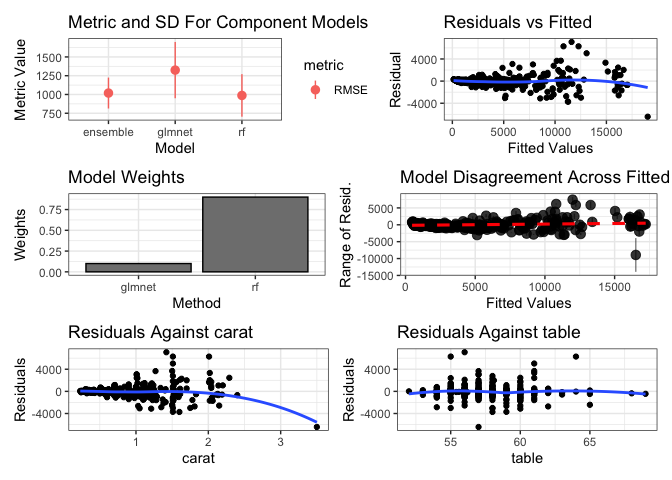
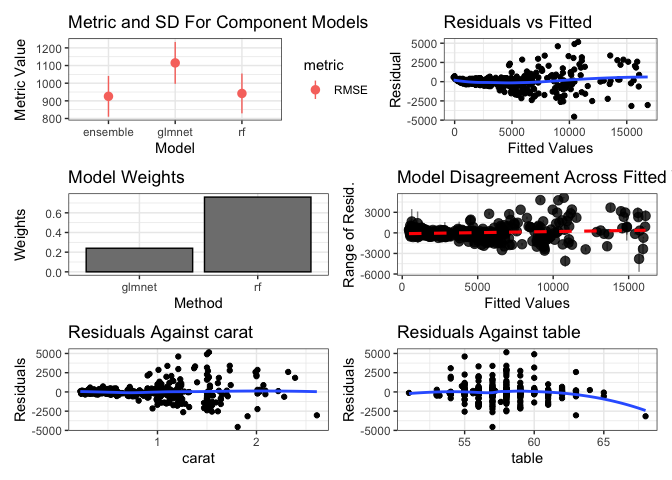
rebuild

diff --git a/README.md b/README.md
@@ -56,21 +56,21 @@ print(greedy_stack)
 #> 
 #> No pre-processing
 #> Resampling: Cross-Validated (5 fold) 
-#> Summary of sample sizes: 400, 400, 400, 400, 400 
+#> Summary of sample sizes: 399, 401, 400, 400, 400 
 #> Resampling results:
 #> 
 #>   RMSE      Rsquared   MAE     
-#>   1019.069  0.9401024  530.9788
+#>   925.6101  0.9454321  513.4172
 #> 
 #> Tuning parameter 'max_iter' was held constant at a value of 100
 #> 
 #> Final model:
 #> Greedy MSE
-#> RMSE:  1013.725 
+#> RMSE:  927.4321 
 #> Weights:
 #>        [,1]
-#> rf      0.9
-#> glmnet  0.1
+#> rf     0.76
+#> glmnet 0.24
 ggplot2::autoplot(greedy_stack, training_data = dat, xvars = c("carat", "table"))
 ```
 
@@ -89,11 +89,11 @@ print(rf_stack)
 #> 
 #> No pre-processing
 #> Resampling: Cross-Validated (5 fold) 
-#> Summary of sample sizes: 400, 400, 400, 400, 400 
+#> Summary of sample sizes: 399, 400, 401, 400, 400 
 #> Resampling results:
 #> 
 #>   RMSE      Rsquared   MAE     
-#>   1076.369  0.9338026  531.9601
+#>   935.9032  0.9469527  525.7192
 #> 
 #> Tuning parameter 'mtry' was held constant at a value of 2
 #> 
@@ -105,8 +105,8 @@ print(rf_stack)
 #>                      Number of trees: 500
 #> No. of variables tried at each split: 2
 #> 
-#>           Mean of squared residuals: 1136154
-#>                     % Var explained: 93.38
+#>           Mean of squared residuals: 919446.8
+#>                     % Var explained: 94.1
 ggplot2::autoplot(rf_stack, training_data = dat, xvars = c("carat", "table"))
 ```
 
@@ -141,7 +141,7 @@ will work in a variety of environments.
 
 # Package development
 
-This packages uses a Makefile. Use `make help` to see the supported
+This package uses a Makefile. Use `make help` to see the supported
 options.
 
 Use `make fix-style` to fix simple linting errors.
@@ -157,20 +157,17 @@ CHECK and a code coverage check. This runs
 ## First time dev setup:
 
 run `make install` from the git repository to install the dev version of
-caretEnsemble, along with the necessary package dependencies.
-
-# Inspiration and similar packages:
-
-caretEnsemble was inspired by [medley](https://github.com/mewo2/medley),
-which in turn was inspired by Caruana et. al.’s (2004) paper [Ensemble
-Selection from Libraries of
+caretEnsemble, along with the necessary package dependencies. \#
+Inspiration and similar packages: caretEnsemble was inspired by
+[medley](https://github.com/mewo2/medley), which in turn was inspired by
+Caruana et. al.’s (2004) paper [Ensemble Selection from Libraries of
 Models.](http://www.cs.cornell.edu/~caruana/ctp/ct.papers/caruana.icml04.icdm06long.pdf)
 
 If you want to do something similar in python, check out
-[vecstack](https://github.com/vecxoz/vecstack)
+[vecstack](https://github.com/vecxoz/vecstack).
 
 # Code of Conduct:
 
 Please note that this project is released with a [Contributor Code of
 Conduct](https://github.com/zachmayer/caretEnsemble/blob/master/.github/CONTRIBUTING.md).
-By participating in this project, you agree to abide by its terms.
+By participating in this project you agree to abide by its terms.
